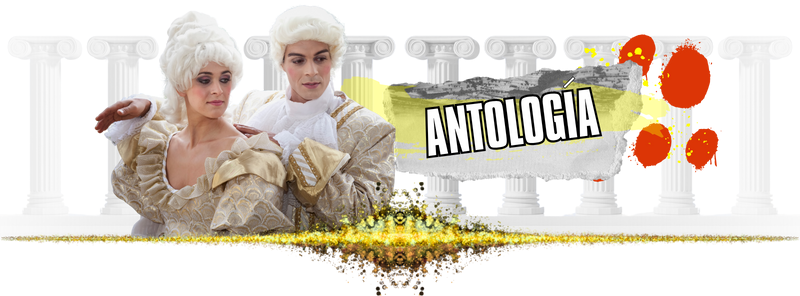
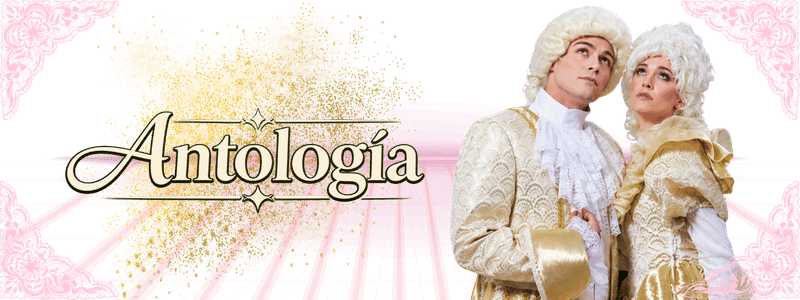
Programas: Sinfonías de Café, Tu Tarde BKN, La Caballera del Zodíaco e imágenes nuevas (web y Tizen/Android TV)

diff --git a/index.html b/index.html
@@ -221,7 +221,7 @@
                 <h2 class="section-title">Programas</h2>
                 <ul class="programs-grid">
                     <li class="program-card" tabindex="-1">
-                        <img src="images/programacion/suenos.png" alt="Sueños de un hombre despierto" onerror="this.style.display='none'">
+                        <img src="images/programacion/sinfonias_de_cafe.png" alt="Sinfonías de Café" onerror="this.style.display='none'">
                         <div class="program-info">
                             <p class="program-schedule">Lunes a domingo, 05:00</p>
                             <p>Noticias, música selecta y vacilona para despertar al humano asalariado.</p>
@@ -235,14 +235,21 @@
                         </div>
                     </li>
                     <li class="program-card" tabindex="-1">
-                        <img src="images/programacion/noches.png" alt="Noche de Cucharitas" onerror="this.style.display='none'">
+                        <img src="images/programacion/tu_tarde_bkn.png" alt="Tu Tarde BKN" onerror="this.style.display='none'">
+                        <div class="program-info">
+                            <p class="program-schedule">Lunes a domingo, 17:00</p>
+                            <p>El reloj del mundo avanza, pero el tuyo sigue en los 90s. Los temones más bkns para los lolos de 35. ¡Ah! Y cero poesía.</p>
+                        </div>
+                    </li>
+                    <li class="program-card" tabindex="-1">
+                        <img src="images/programacion/noche_de_cucharitas.png" alt="Noche de Cucharitas" onerror="this.style.display='none'">
                         <div class="program-info">
                             <p class="program-schedule">Domingo a jueves, 21:00</p>
                             <p>Ritmos apacibles para el Makin' Makin' Love.</p>
                         </div>
                     </li>
                     <li class="program-card" tabindex="-1">
-                        <img src="images/programacion/minue.png" alt="El Minué" onerror="this.style.display='none'">
+                        <img src="images/programacion/el_minue.png" alt="El Minué" onerror="this.style.display='none'">
                         <div class="program-info">
                             <p class="program-schedule">Viernes y sábado, 21:00</p>
                             <p>A.K.A. el bailongo de Poesía y Cumbia Radio.</p>
@@ -257,6 +264,13 @@
                         <div>
                             <h4>La Pildorita del Profesor Maza</h4>
                             <p>Pequeñas cápsulas informativas en la voz del astrónomo más querido de Chile.</p>
+                        </div>
+                    </li>
+                    <li class="feature-card" tabindex="-1">
+                        <img src="images/avatars/caballera.jpg" alt="" onerror="this.style.display='none'">
+                        <div>
+                            <h4>La Caballera del Zodíaco</h4>
+                            <p>La Tía Yoli nos traduce al español chileno lo que los Astros están diciendo. Sólo deseamos: ¡Que los vaiga bien!</p>
                         </div>
                     </li>
                     <li class="feature-card" tabindex="-1">
@@ -537,27 +551,27 @@
 
                 // Lunes a Domingo de 17 a 21 hrs (prioridad)
                 if (hour >= 17 && hour < 21) {
-                    return 'images/programas/tu_tarde_bkn.png';
+                    return 'images/programas/tu_tarde_bkn_lateral.png';
                 }
                 
                 // Domingo a Jueves (0-4) de 21 hrs a 5am
                 if ((day >= 0 && day <= 4) && (hour >= 21 || hour < 5)) {
-                    return 'images/programas/noche_de_cucharitas.png';
+                    return 'images/programas/noche_de_cucharitas_lateral.png';
                 }
                 
                 // Viernes y Sábado (5-6) de 21 hrs a 5am
                 if ((day === 5 || day === 6) && (hour >= 21 || hour < 5)) {
-                    return 'images/programas/dance_y_vacile.png';
+                    return 'images/programas/el_minue_lateral.png';
                 }
                 
                 // Lunes a Domingo de 05 am a 09 am
                 if (hour >= 5 && hour < 9) {
-                    return 'images/programas/levantate_papito.png';
+                    return 'images/programas/sinfonias_de_cafe_lateral.png';
                 }
                 
                 // Lunes a Domingo de 09 am a 17 hrs
                 if (hour >= 9 && hour < 17) {
-                    return 'images/programas/antologia.png';
+                    return 'images/programas/antologia_lateral.png';
                 }
                 
                 // Cualquier otro horario

diff --git a/tizen/index.html b/tizen/index.html
@@ -115,7 +115,7 @@
         <button class="panel-back" data-focus data-action="close">Volver</button>
         <ul class="programs">
             <li class="program-card">
-                <img src="images/programacion/suenos.png" alt="Sueños de un hombre despierto">
+                <img src="images/programacion/sinfonias_de_cafe.png" alt="Sinfonías de Café">
                 <p class="program-when">Lunes a domingo · 05:00</p>
                 <p>Noticias, música selecta y vacilona para despertar al humano asalariado.</p>
             </li>
@@ -125,12 +125,17 @@
                 <p>Grandes éxitos para jóvenes, adultos y ascensores.</p>
             </li>
             <li class="program-card">
-                <img src="images/programacion/noches.png" alt="Noche de Cucharitas">
+                <img src="images/programacion/tu_tarde_bkn.png" alt="Tu Tarde BKN">
+                <p class="program-when">Lunes a domingo · 17:00</p>
+                <p>El reloj del mundo avanza, pero el tuyo sigue en los 90s. Los temones más bkns para los lolos de 35. ¡Ah! Y cero poesía.</p>
+            </li>
+            <li class="program-card">
+                <img src="images/programacion/noche_de_cucharitas.png" alt="Noche de Cucharitas">
                 <p class="program-when">Domingo a jueves · 21:00</p>
                 <p>Ritmos apacibles para el Makin' Makin' Love.</p>
             </li>
             <li class="program-card">
-                <img src="images/programacion/minue.png" alt="El Minué">
+                <img src="images/programacion/el_minue.png" alt="El Minué">
                 <p class="program-when">Viernes y sábado · 21:00</p>
                 <p>A.K.A. el bailongo de Poesía y Cumbia Radio.</p>
             </li>
@@ -142,6 +147,13 @@
                 <div>
                     <h4>La Pildorita del Profesor Maza</h4>
                     <p>Pequeñas cápsulas informativas en la voz del astrónomo más querido de Chile.</p>
+                </div>
+            </li>
+            <li class="feature">
+                <img src="images/avatars/caballera.jpg" alt="">
+                <div>
+                    <h4>La Caballera del Zodíaco</h4>
+                    <p>La Tía Yoli nos traduce al español chileno lo que los Astros están diciendo. Sólo deseamos: ¡Que los vaiga bien!</p>
                 </div>
             </li>
             <li class="feature">

diff --git a/tizen/css/tv.css b/tizen/css/tv.css
@@ -697,10 +697,10 @@ body:not(.is-loading) .splash { opacity: 0; visibility: hidden; }
 }
 
 .program-card {
-    width: 400px;
-    margin-right: 26px;
-    font-size: 26px;
-    line-height: 1.3;
+    width: 316px;
+    margin-right: 24px;
+    font-size: 23px;
+    line-height: 1.25;
     color: #aaa59c;
 }
 
@@ -708,7 +708,7 @@ body:not(.is-loading) .splash { opacity: 0; visibility: hidden; }
 .feature:last-child,
 .team-card:last-child { margin-right: 0; }
 
-.program-card img { width: 400px; height: 148px; margin-bottom: 14px; }
+.program-card img { width: 316px; height: 119px; margin-bottom: 14px; }
 
 .program-when {
     margin-bottom: 6px;
@@ -723,17 +723,17 @@ body:not(.is-loading) .splash { opacity: 0; visibility: hidden; }
 
 .feature {
     display: -webkit-flex; display: flex;
-    width: 540px;
-    margin-right: 30px;
-    font-size: 24px;
+    width: 390px;
+    margin-right: 24px;
+    font-size: 22px;
     line-height: 1.3;
     color: #aaa59c;
 }
 
 .feature img {
-    width: 110px;
-    height: 110px;
-    margin-right: 22px;
+    width: 90px;
+    height: 90px;
+    margin-right: 18px;
     -webkit-flex: none; flex: none;
     border-radius: 50%;
     object-fit: cover;

diff --git a/tizen/js/app.js b/tizen/js/app.js
@@ -485,11 +485,11 @@
         var now = new Date();
         var day = now.getDay();
         var hour = now.getHours();
-        if (hour >= 17 && hour < 21) { return 'tu_tarde_bkn'; }
-        if (day >= 0 && day <= 4 && (hour >= 21 || hour < 5)) { return 'noche_de_cucharitas'; }
-        if ((day === 5 || day === 6) && (hour >= 21 || hour < 5)) { return 'dance_y_vacile'; }
-        if (hour >= 5 && hour < 9) { return 'levantate_papito'; }
-        if (hour >= 9 && hour < 17) { return 'antologia'; }
+        if (hour >= 17 && hour < 21) { return 'tu_tarde_bkn_lateral'; }
+        if (day >= 0 && day <= 4 && (hour >= 21 || hour < 5)) { return 'noche_de_cucharitas_lateral'; }
+        if ((day === 5 || day === 6) && (hour >= 21 || hour < 5)) { return 'el_minue_lateral'; }
+        if (hour >= 5 && hour < 9) { return 'sinfonias_de_cafe_lateral'; }
+        if (hour >= 9 && hour < 17) { return 'antologia_lateral'; }
         return 'default';
     }
 
